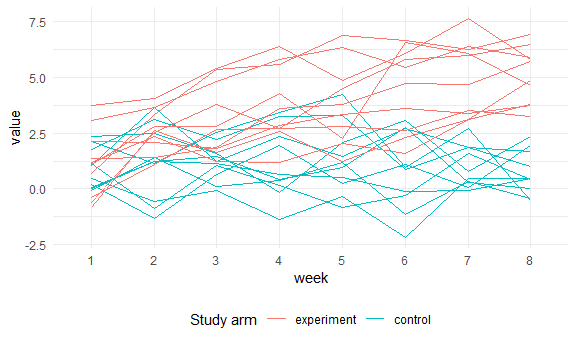
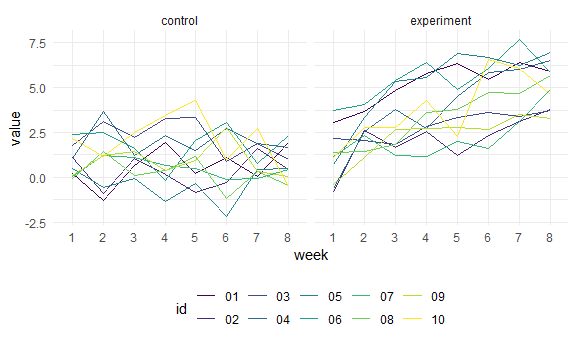
created plot of proportion of times nulls was rejected and true value of mu

diff --git a/p8105_hw5_cd3347.md b/p8105_hw5_cd3347.md
@@ -26,147 +26,6 @@ study_df =
   )
 ```
 
-    ## Rows: 1 Columns: 8
-    ## ── Column specification ────────────────────────────────────────────────────────
-    ## Delimiter: ","
-    ## dbl (8): week_1, week_2, week_3, week_4, week_5, week_6, week_7, week_8
-    ## 
-    ## ℹ Use `spec()` to retrieve the full column specification for this data.
-    ## ℹ Specify the column types or set `show_col_types = FALSE` to quiet this message.
-    ## Rows: 1 Columns: 8
-    ## ── Column specification ────────────────────────────────────────────────────────
-    ## Delimiter: ","
-    ## dbl (8): week_1, week_2, week_3, week_4, week_5, week_6, week_7, week_8
-    ## 
-    ## ℹ Use `spec()` to retrieve the full column specification for this data.
-    ## ℹ Specify the column types or set `show_col_types = FALSE` to quiet this message.
-    ## Rows: 1 Columns: 8
-    ## ── Column specification ────────────────────────────────────────────────────────
-    ## Delimiter: ","
-    ## dbl (8): week_1, week_2, week_3, week_4, week_5, week_6, week_7, week_8
-    ## 
-    ## ℹ Use `spec()` to retrieve the full column specification for this data.
-    ## ℹ Specify the column types or set `show_col_types = FALSE` to quiet this message.
-    ## Rows: 1 Columns: 8
-    ## ── Column specification ────────────────────────────────────────────────────────
-    ## Delimiter: ","
-    ## dbl (8): week_1, week_2, week_3, week_4, week_5, week_6, week_7, week_8
-    ## 
-    ## ℹ Use `spec()` to retrieve the full column specification for this data.
-    ## ℹ Specify the column types or set `show_col_types = FALSE` to quiet this message.
-    ## Rows: 1 Columns: 8
-    ## ── Column specification ────────────────────────────────────────────────────────
-    ## Delimiter: ","
-    ## dbl (8): week_1, week_2, week_3, week_4, week_5, week_6, week_7, week_8
-    ## 
-    ## ℹ Use `spec()` to retrieve the full column specification for this data.
-    ## ℹ Specify the column types or set `show_col_types = FALSE` to quiet this message.
-    ## Rows: 1 Columns: 8
-    ## ── Column specification ────────────────────────────────────────────────────────
-    ## Delimiter: ","
-    ## dbl (8): week_1, week_2, week_3, week_4, week_5, week_6, week_7, week_8
-    ## 
-    ## ℹ Use `spec()` to retrieve the full column specification for this data.
-    ## ℹ Specify the column types or set `show_col_types = FALSE` to quiet this message.
-    ## Rows: 1 Columns: 8
-    ## ── Column specification ────────────────────────────────────────────────────────
-    ## Delimiter: ","
-    ## dbl (8): week_1, week_2, week_3, week_4, week_5, week_6, week_7, week_8
-    ## 
-    ## ℹ Use `spec()` to retrieve the full column specification for this data.
-    ## ℹ Specify the column types or set `show_col_types = FALSE` to quiet this message.
-    ## Rows: 1 Columns: 8
-    ## ── Column specification ────────────────────────────────────────────────────────
-    ## Delimiter: ","
-    ## dbl (8): week_1, week_2, week_3, week_4, week_5, week_6, week_7, week_8
-    ## 
-    ## ℹ Use `spec()` to retrieve the full column specification for this data.
-    ## ℹ Specify the column types or set `show_col_types = FALSE` to quiet this message.
-    ## Rows: 1 Columns: 8
-    ## ── Column specification ────────────────────────────────────────────────────────
-    ## Delimiter: ","
-    ## dbl (8): week_1, week_2, week_3, week_4, week_5, week_6, week_7, week_8
-    ## 
-    ## ℹ Use `spec()` to retrieve the full column specification for this data.
-    ## ℹ Specify the column types or set `show_col_types = FALSE` to quiet this message.
-    ## Rows: 1 Columns: 8
-    ## ── Column specification ────────────────────────────────────────────────────────
-    ## Delimiter: ","
-    ## dbl (8): week_1, week_2, week_3, week_4, week_5, week_6, week_7, week_8
-    ## 
-    ## ℹ Use `spec()` to retrieve the full column specification for this data.
-    ## ℹ Specify the column types or set `show_col_types = FALSE` to quiet this message.
-    ## Rows: 1 Columns: 8
-    ## ── Column specification ────────────────────────────────────────────────────────
-    ## Delimiter: ","
-    ## dbl (8): week_1, week_2, week_3, week_4, week_5, week_6, week_7, week_8
-    ## 
-    ## ℹ Use `spec()` to retrieve the full column specification for this data.
-    ## ℹ Specify the column types or set `show_col_types = FALSE` to quiet this message.
-    ## Rows: 1 Columns: 8
-    ## ── Column specification ────────────────────────────────────────────────────────
-    ## Delimiter: ","
-    ## dbl (8): week_1, week_2, week_3, week_4, week_5, week_6, week_7, week_8
-    ## 
-    ## ℹ Use `spec()` to retrieve the full column specification for this data.
-    ## ℹ Specify the column types or set `show_col_types = FALSE` to quiet this message.
-    ## Rows: 1 Columns: 8
-    ## ── Column specification ────────────────────────────────────────────────────────
-    ## Delimiter: ","
-    ## dbl (8): week_1, week_2, week_3, week_4, week_5, week_6, week_7, week_8
-    ## 
-    ## ℹ Use `spec()` to retrieve the full column specification for this data.
-    ## ℹ Specify the column types or set `show_col_types = FALSE` to quiet this message.
-    ## Rows: 1 Columns: 8
-    ## ── Column specification ────────────────────────────────────────────────────────
-    ## Delimiter: ","
-    ## dbl (8): week_1, week_2, week_3, week_4, week_5, week_6, week_7, week_8
-    ## 
-    ## ℹ Use `spec()` to retrieve the full column specification for this data.
-    ## ℹ Specify the column types or set `show_col_types = FALSE` to quiet this message.
-    ## Rows: 1 Columns: 8
-    ## ── Column specification ────────────────────────────────────────────────────────
-    ## Delimiter: ","
-    ## dbl (8): week_1, week_2, week_3, week_4, week_5, week_6, week_7, week_8
-    ## 
-    ## ℹ Use `spec()` to retrieve the full column specification for this data.
-    ## ℹ Specify the column types or set `show_col_types = FALSE` to quiet this message.
-    ## Rows: 1 Columns: 8
-    ## ── Column specification ────────────────────────────────────────────────────────
-    ## Delimiter: ","
-    ## dbl (8): week_1, week_2, week_3, week_4, week_5, week_6, week_7, week_8
-    ## 
-    ## ℹ Use `spec()` to retrieve the full column specification for this data.
-    ## ℹ Specify the column types or set `show_col_types = FALSE` to quiet this message.
-    ## Rows: 1 Columns: 8
-    ## ── Column specification ────────────────────────────────────────────────────────
-    ## Delimiter: ","
-    ## dbl (8): week_1, week_2, week_3, week_4, week_5, week_6, week_7, week_8
-    ## 
-    ## ℹ Use `spec()` to retrieve the full column specification for this data.
-    ## ℹ Specify the column types or set `show_col_types = FALSE` to quiet this message.
-    ## Rows: 1 Columns: 8
-    ## ── Column specification ────────────────────────────────────────────────────────
-    ## Delimiter: ","
-    ## dbl (8): week_1, week_2, week_3, week_4, week_5, week_6, week_7, week_8
-    ## 
-    ## ℹ Use `spec()` to retrieve the full column specification for this data.
-    ## ℹ Specify the column types or set `show_col_types = FALSE` to quiet this message.
-    ## Rows: 1 Columns: 8
-    ## ── Column specification ────────────────────────────────────────────────────────
-    ## Delimiter: ","
-    ## dbl (8): week_1, week_2, week_3, week_4, week_5, week_6, week_7, week_8
-    ## 
-    ## ℹ Use `spec()` to retrieve the full column specification for this data.
-    ## ℹ Specify the column types or set `show_col_types = FALSE` to quiet this message.
-    ## Rows: 1 Columns: 8
-    ## ── Column specification ────────────────────────────────────────────────────────
-    ## Delimiter: ","
-    ## dbl (8): week_1, week_2, week_3, week_4, week_5, week_6, week_7, week_8
-    ## 
-    ## ℹ Use `spec()` to retrieve the full column specification for this data.
-    ## ℹ Specify the column types or set `show_col_types = FALSE` to quiet this message.
-
 Tidy data:
 
 ``` r
@@ -174,11 +33,7 @@ study_df_tidy =
   study_df %>% 
   unnest(data) %>% 
   mutate(files = str_remove(files, ".csv")) %>% 
-  mutate(
-    files = str_replace(files, "con_", "control"),
-    files = str_replace(files, "exp_", "experiment")
-    ) %>% 
-  rename(arm_and_id = files) %>% 
+  separate(col = files, into = c("arm", "id"), sep = "_") %>% 
   pivot_longer(
     week_1:week_8,
     names_to = "week",
@@ -186,16 +41,20 @@ study_df_tidy =
   ) %>% 
   mutate(
     week = str_remove(week, "week_")
-  )
+  ) %>% 
+  mutate(
+    arm = str_replace(arm, "con", "control"),
+    arm = str_replace(arm, "exp", "experiment")
+    )
 ```
 
 Make a spaghetti plot of observations over time:
 
 ``` r
 study_df_tidy %>% 
-  ggplot(aes(x = week, y = value, group = arm_and_id, color = str_detect(arm_and_id, "control"))) + 
+  ggplot(aes(x = week, y = value, group = id, color = id)) + 
   geom_line() + 
-  scale_color_discrete(name = "Study arm", labels = c("experiment", "control"))
+  facet_grid(. ~ arm)
 ```
 
 <img src="p8105_hw5_cd3347_files/figure-gfm/unnamed-chunk-4-1.png" width="90%" />
@@ -226,21 +85,10 @@ mu_0 =
     mu = 0
   ) %>% 
   mutate(
-    datasets = map(.x = mu, ~ rerun(5000, sim_datasets(.x)))
+    datasets = map(.x = mu, ~ map(1:5000, ~ sim_datasets(.x)))
   ) %>% 
   unnest(datasets)
 ```
-
-    ## Warning: There was 1 warning in `mutate()`.
-    ## ℹ In argument: `datasets = map(.x = mu, ~rerun(5000, sim_datasets(.x)))`.
-    ## Caused by warning:
-    ## ! `rerun()` was deprecated in purrr 1.0.0.
-    ## ℹ Please use `map()` instead.
-    ##   # Previously
-    ##   rerun(5000, sim_datasets(.x))
-    ## 
-    ##   # Now
-    ##   map(1:5000, ~ sim_datasets(.x))
 
 Conduct t test on each dataset and save the estimate and p-value:
 
@@ -284,3 +132,22 @@ Binding the rows together so we can create a plot:
 htests = 
   bind_rows(mu_0_test, mu_all_test)
 ```
+
+Make a plot showing proportion of times the null was rejected and true
+value of mu.
+
+``` r
+prop_plot = 
+  htests %>% 
+  mutate(reject = (p_value <= 0.05)) %>% 
+  group_by(mu_value, reject) %>% 
+  summarize(is_true = n()) %>% 
+  filter(reject == "TRUE") %>% 
+  mutate(proportion = is_true / 5000) %>% 
+  ggplot(aes(x = mu_value, y = proportion)) + 
+  geom_point() + 
+  geom_line()
+```
+
+    ## `summarise()` has grouped output by 'mu_value'. You can override using the
+    ## `.groups` argument.
